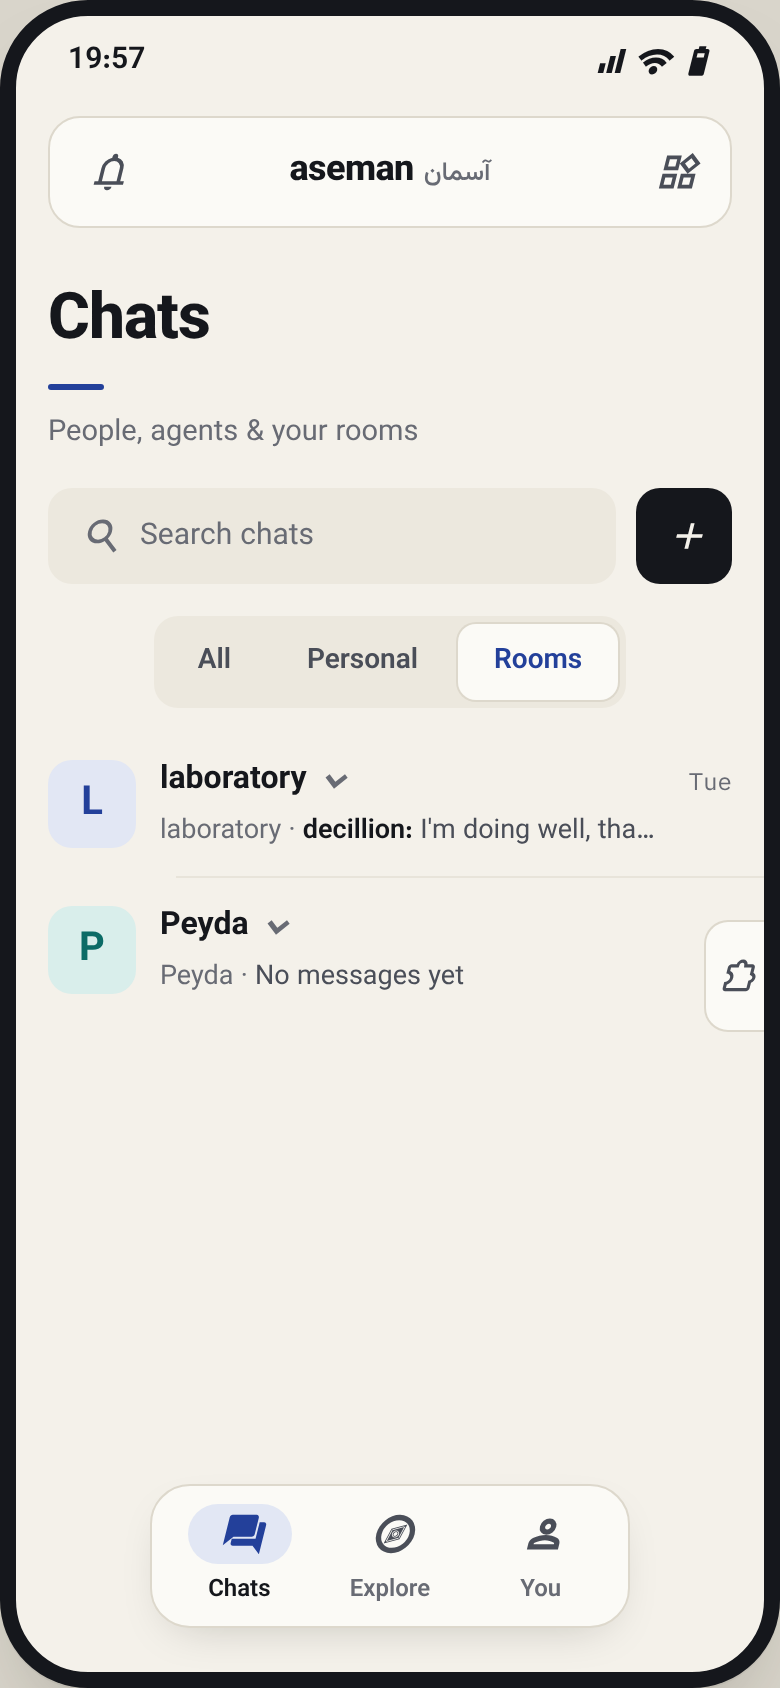
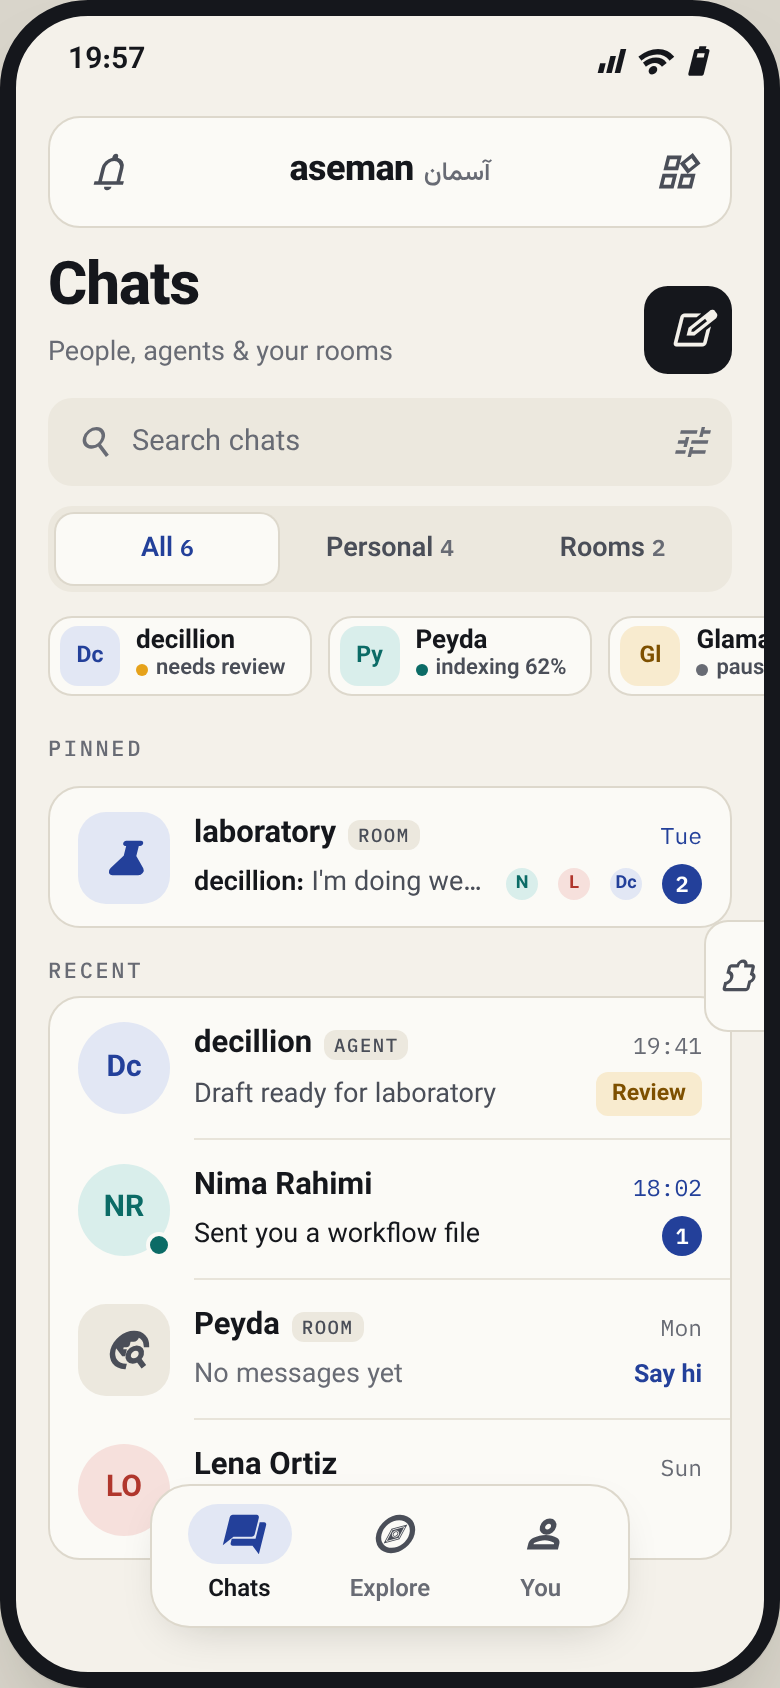
Mockups: richer Chats tab layout
Claude-Session: https://claude.ai/code/session_015vVwqbsWYyXhMKrkHDu5AD

diff --git a/design/mockups/mockups.html b/design/mockups/mockups.html
@@ -52,15 +52,6 @@ body{background:#D9D5CB;font-family:Vazirmatn,sans-serif;color:var(--ink);paddin
 .cap b{display:block;color:#15171C;font-size:15px;margin-bottom:4px}
 .w{display:flex;flex-direction:column}
 
-.cmd{position:absolute;left:0;right:0;bottom:0;background:var(--surface);border-top:1px solid var(--line);padding:10px 16px 24px}
-.places{display:flex;gap:18px;font-size:13px;font-weight:700;color:var(--ink-3);margin-bottom:10px;align-items:center}
-.places .on{color:var(--ink)}
-.places .on:after{content:"";display:block;height:2px;background:var(--ink);margin-top:3px;border-radius:1px}
-.line{height:48px;border:1.5px solid var(--ink);border-radius:14px;display:flex;align-items:center;padding:0 6px 0 14px;gap:10px;background:var(--paper)}
-.line .p{font-family:'IBM Plex Mono';font-weight:600;color:var(--lapis)}
-.line .ph{flex:1;font-size:14.5px;color:var(--ink-3)}
-.tok{border-bottom:2px dotted currentColor;padding:0 1px}
-
 .top{margin:6px 16px 0;height:56px;border:1px solid var(--line);background:var(--surface);border-radius:16px;display:flex;align-items:center;justify-content:space-between;padding:0 8px}
 .top .wm{font-weight:800;font-size:18px;letter-spacing:-.3px}.top .wm span{font-weight:500;font-size:13px;color:var(--ink-3);margin-left:5px}
 .nav{position:absolute;left:50%;transform:translateX(-50%);bottom:22px;width:240px;height:72px;background:var(--surface);border:1px solid var(--line);border-radius:20px;display:flex;align-items:center;padding:0 6px;box-shadow:0 8px 24px -12px rgba(20,18,10,.25)}
@@ -74,23 +65,7 @@ body{background:#D9D5CB;font-family:Vazirmatn,sans-serif;color:var(--ink);paddin
 .dark{--wallet:#2B4396}:root{--wallet:#23409A}
 .eyebrow{font-family:'IBM Plex Mono';font-size:11px;letter-spacing:.12em;color:var(--ink-3);font-weight:500}
 </style></head><body>
-<div class="w"><div class="phone" id="s1"><div class="status"><span>19:57</span><span><i class="i">signal_cellular_alt</i><i class="i">wifi</i><i class="i">battery_5_bar</i></span></div><div class="top"><span class="ib"><i class="i">notifications</i></span><span class="wm">aseman<span>آسمان</span></span><span class="ib"><i class="i">widgets</i></span></div>
-<div class="pad" style="margin-top:22px"><div style="font-size:32px;font-weight:800;letter-spacing:-.5px">Chats</div><div style="width:28px;height:3px;border-radius:2px;background:var(--lapis);margin-top:6px"></div><div style="font-size:14.5px;color:var(--ink-3);margin-top:10px">People, agents &amp; your rooms</div></div>
-<div class="pad row" style="margin-top:16px;gap:10px"><div style="flex:1;height:48px;border-radius:12px;background:var(--sunken);display:flex;align-items:center;gap:10px;padding:0 14px;color:var(--ink-3);font-size:15px"><i class="i">search</i>Search chats</div><span class="ib" style="width:48px;height:48px;background:var(--ink);color:var(--paper)"><i class="i">add</i></span></div>
-<div style="display:flex;justify-content:center;margin-top:16px"><div style="display:flex;background:var(--sunken);border-radius:12px;padding:4px;gap:2px;font-size:14px;font-weight:600;color:var(--ink-2)">
- <span style="padding:8px 18px">All</span><span style="padding:8px 18px">Personal</span><span style="padding:8px 18px;border-radius:9px;background:var(--surface);color:var(--lapis);box-shadow:0 0 0 1px var(--line)">Rooms</span></div></div>
-<div style="margin-top:12px">
-<div class="row" style="padding:12px 16px">
- <span class="sq t-l" style="width:44px;height:44px;border-radius:12px;font-size:20px">L</span>
- <div style="flex:1;min-width:0"><div class="row" style="justify-content:space-between"><span style="font-weight:700;font-size:16px;display:flex;align-items:center;gap:2px">laboratory<i class="i" style="font-size:20px;color:var(--ink-3)">expand_more</i></span><span class="mono" style="font-size:12px;color:var(--ink-3)">Tue</span></div>
- <div style="font-size:13.5px;color:var(--ink-2);white-space:nowrap;overflow:hidden;text-overflow:ellipsis;margin-top:2px"><span style="color:var(--ink-3)">laboratory ·</span> <b style="font-weight:600;color:var(--ink)">decillion:</b> I'm doing well, tha…</div></div></div>
-<div style="height:1px;background:var(--line-2);margin-left:80px"></div>
-<div class="row" style="padding:12px 16px">
- <span class="sq t-f" style="width:44px;height:44px;border-radius:12px;font-size:20px">P</span>
- <div style="flex:1;min-width:0"><div class="row" style="justify-content:space-between"><span style="font-weight:700;font-size:16px;display:flex;align-items:center;gap:2px">Peyda<i class="i" style="font-size:20px;color:var(--ink-3)">expand_more</i></span><span class="mono" style="font-size:12px;color:var(--ink-3)"></span></div>
- <div style="font-size:13.5px;color:var(--ink-2);white-space:nowrap;overflow:hidden;text-overflow:ellipsis;margin-top:2px"><span style="color:var(--ink-3)">Peyda ·</span> No messages yet</div></div></div>
-</div><div class="ext"><i class="i">extension</i></div><div class="nav"><a class="on"><span class="ic"><i class="i f">forum</i></span>Chats</a><a class=""><span class="ic"><i class="i ">explore</i></span>Explore</a><a class=""><span class="ic"><i class="i ">person</i></span>You</a></div>
-</div><div class="cap"><b>01 · Chats</b>Same layout as today. The pill top bar is now a squarer card. Search is a sunken field next to a black "+" button. The selected filter is a raised segment with lapis text. Rooms get tinted square avatars, and times use the mono font.</div></div><div class="w"><div class="phone" id="s2"><div class="status"><span>19:57</span><span><i class="i">signal_cellular_alt</i><i class="i">wifi</i><i class="i">battery_5_bar</i></span></div><div class="top"><span class="ib"><i class="i">notifications</i></span><span class="wm">aseman<span>آسمان</span></span><span class="ib"><i class="i">widgets</i></span></div>
+<div class="w"><div class="phone" id="s1"><div class="status"><span>19:57</span><span><i class="i">signal_cellular_alt</i><i class="i">wifi</i><i class="i">battery_5_bar</i></span></div><div class="top"><span class="ib"><i class="i">notifications</i></span><span class="wm">aseman<span>آسمان</span></span><span class="ib"><i class="i">widgets</i></span></div><div class="pad row" style="margin-top:16px;justify-content:space-between;align-items:flex-end"><div><div style="font-size:30px;font-weight:800;letter-spacing:-.5px;line-height:1">Chats</div><div style="font-size:13.5px;color:var(--ink-3);margin-top:6px">People, agents &amp; your rooms</div></div><span class="ib" style="width:44px;height:44px;background:var(--ink);color:var(--paper)"><i class="i">edit_square</i></span></div><div class="pad" style="margin-top:12px"><div style="height:44px;border-radius:12px;background:var(--sunken);display:flex;align-items:center;gap:10px;padding:0 12px;color:var(--ink-3);font-size:14.5px"><i class="i" style="font-size:20px">search</i><span style="flex:1">Search chats</span><i class="i" style="font-size:20px">tune</i></div></div><div class="pad" style="margin-top:10px"><div style="display:flex;background:var(--sunken);border-radius:12px;padding:4px;font-size:13.5px;font-weight:600;color:var(--ink-2)"><span style="flex:1;text-align:center;padding:7px 0;border-radius:9px;background:var(--surface);color:var(--lapis);box-shadow:0 0 0 1px var(--line)">All <span class="mono" style="font-size:11.5px">6</span></span><span style="flex:1;text-align:center;padding:7px 0">Personal <span class="mono" style="font-size:11.5px;color:var(--ink-3)">4</span></span><span style="flex:1;text-align:center;padding:7px 0">Rooms <span class="mono" style="font-size:11.5px;color:var(--ink-3)">2</span></span></div></div><div style="display:flex;gap:8px;padding:12px 16px 0;overflow:hidden"><span class="row" style="gap:8px;height:40px;padding:0 12px 0 5px;border-radius:12px;border:1px solid var(--line);background:var(--surface);flex:none"><span class="sq t-l" style="width:30px;height:30px;border-radius:9px;font-size:11.5px">Dc</span><span style="line-height:1.15"><span style="display:block;font-size:13px;font-weight:700">decillion</span><span class="row" style="gap:4px;font-size:11px;color:var(--ink-2);font-weight:600"><i class="dot" style="background:var(--saffron-fill);width:6px;height:6px"></i>needs review</span></span></span><span class="row" style="gap:8px;height:40px;padding:0 12px 0 5px;border-radius:12px;border:1px solid var(--line);background:var(--surface);flex:none"><span class="sq t-f" style="width:30px;height:30px;border-radius:9px;font-size:11.5px">Py</span><span style="line-height:1.15"><span style="display:block;font-size:13px;font-weight:700">Peyda</span><span class="row" style="gap:4px;font-size:11px;color:var(--ink-2);font-weight:600"><i class="dot" style="background:var(--firoozeh);width:6px;height:6px"></i>indexing 62%</span></span></span><span class="row" style="gap:8px;height:40px;padding:0 12px 0 5px;border-radius:12px;border:1px solid var(--line);background:var(--surface);flex:none"><span class="sq t-s" style="width:30px;height:30px;border-radius:9px;font-size:11.5px">Gl</span><span style="line-height:1.15"><span style="display:block;font-size:13px;font-weight:700">Glama</span><span class="row" style="gap:4px;font-size:11px;color:var(--ink-2);font-weight:600"><i class="dot" style="background:var(--ink-3);width:6px;height:6px"></i>paused</span></span></span></div><div class="pad" style="margin-top:14px"><span class="eyebrow">PINNED</span></div><div class="pad" style="margin-top:6px"><div class="box" style="border-radius:16px"><div class="row" style="padding:11px 14px"><span style="position:relative;flex:none"><span class="sq t-l" style="width:46px;height:46px;border-radius:14px;font-size:15px"><i class="i f" style="font-size:22px">science</i></span></span><div style="flex:1;min-width:0"><div class="row" style="justify-content:space-between;gap:8px"><span class="row" style="gap:6px;font-weight:700;font-size:15.5px">laboratory<span class="pill t-n mono" style="font-size:9.5px;letter-spacing:.08em;padding:1px 5px;font-weight:500">ROOM</span></span><span class="mono" style="font-size:11.5px;color:var(--lapis)">Tue</span></div><div class="row" style="justify-content:space-between;gap:8px;margin-top:2px"><span style="font-size:13.5px;color:var(--ink-2);white-space:nowrap;overflow:hidden;text-overflow:ellipsis"><b style="font-weight:600;color:var(--ink)">decillion:</b> I'm doing well, thanks for asking…</span><span class="row" style="flex:none"><span class="sq t-f" style="width:20px;height:20px;border-radius:50%;font-size:9px;border:2px solid var(--surface);margin-left:0px">N</span><span class="sq t-a" style="width:20px;height:20px;border-radius:50%;font-size:9px;border:2px solid var(--surface);margin-left:-6px">L</span><span class="sq t-l" style="width:20px;height:20px;border-radius:50%;font-size:9px;border:2px solid var(--surface);margin-left:-6px">Dc</span></span><span class="mono" style="min-width:20px;height:20px;border-radius:10px;background:var(--lapis);color:var(--on-lapis);font-size:11px;font-weight:600;display:flex;align-items:center;justify-content:center;padding:0 6px;flex:none">2</span></div></div></div></div></div><div class="pad row" style="margin-top:14px;justify-content:space-between"><span class="eyebrow">RECENT</span></div><div class="pad" style="margin-top:6px"><div class="box" style="border-radius:16px"><div class="row" style="padding:11px 14px"><span style="position:relative;flex:none"><span class="sq t-l" style="width:46px;height:46px;border-radius:50%;font-size:15px">Dc</span></span><div style="flex:1;min-width:0"><div class="row" style="justify-content:space-between;gap:8px"><span class="row" style="gap:6px;font-weight:700;font-size:15.5px">decillion<span class="pill t-n mono" style="font-size:9.5px;letter-spacing:.08em;padding:1px 5px;font-weight:500">AGENT</span></span><span class="mono" style="font-size:11.5px;color:var(--ink-3)">19:41</span></div><div class="row" style="justify-content:space-between;gap:8px;margin-top:2px"><span style="font-size:13.5px;color:var(--ink-2);white-space:nowrap;overflow:hidden;text-overflow:ellipsis">Draft ready for laboratory</span><span class="pill t-s" style="flex:none">Review</span></div></div></div><div style="height:1px;background:var(--line-2);margin-left:72px"></div><div class="row" style="padding:11px 14px"><span style="position:relative;flex:none"><span class="sq t-f" style="width:46px;height:46px;border-radius:50%;font-size:15px">NR</span><i style="position:absolute;right:-1px;bottom:-1px;width:13px;height:13px;border-radius:50%;background:var(--firoozeh);border:2.5px solid var(--surface)"></i></span><div style="flex:1;min-width:0"><div class="row" style="justify-content:space-between;gap:8px"><span class="row" style="gap:6px;font-weight:700;font-size:15.5px">Nima Rahimi</span><span class="mono" style="font-size:11.5px;color:var(--lapis)">18:02</span></div><div class="row" style="justify-content:space-between;gap:8px;margin-top:2px"><span style="font-size:13.5px;color:var(--ink-2);white-space:nowrap;overflow:hidden;text-overflow:ellipsis"><span style="color:var(--ink)">Sent you a workflow file</span></span><span class="mono" style="min-width:20px;height:20px;border-radius:10px;background:var(--lapis);color:var(--on-lapis);font-size:11px;font-weight:600;display:flex;align-items:center;justify-content:center;padding:0 6px;flex:none">1</span></div></div></div><div style="height:1px;background:var(--line-2);margin-left:72px"></div><div class="row" style="padding:11px 14px"><span style="position:relative;flex:none"><span class="sq t-n" style="width:46px;height:46px;border-radius:14px;font-size:15px"><i class="i" style="font-size:22px">travel_explore</i></span></span><div style="flex:1;min-width:0"><div class="row" style="justify-content:space-between;gap:8px"><span class="row" style="gap:6px;font-weight:700;font-size:15.5px">Peyda<span class="pill t-n mono" style="font-size:9.5px;letter-spacing:.08em;padding:1px 5px;font-weight:500">ROOM</span></span><span class="mono" style="font-size:11.5px;color:var(--ink-3)">Mon</span></div><div class="row" style="justify-content:space-between;gap:8px;margin-top:2px"><span style="font-size:13.5px;color:var(--ink-2);white-space:nowrap;overflow:hidden;text-overflow:ellipsis"><span style="color:var(--ink-3)">No messages yet</span></span><span style="font-size:12.5px;font-weight:700;color:var(--lapis);flex:none">Say hi</span></div></div></div><div style="height:1px;background:var(--line-2);margin-left:72px"></div><div class="row" style="padding:11px 14px"><span style="position:relative;flex:none"><span class="sq t-a" style="width:46px;height:46px;border-radius:50%;font-size:15px">LO</span></span><div style="flex:1;min-width:0"><div class="row" style="justify-content:space-between;gap:8px"><span class="row" style="gap:6px;font-weight:700;font-size:15.5px">Lena Ortiz</span><span class="mono" style="font-size:11.5px;color:var(--ink-3)">Sun</span></div><div class="row" style="justify-content:space-between;gap:8px;margin-top:2px"><span style="font-size:13.5px;color:var(--ink-2);white-space:nowrap;overflow:hidden;text-overflow:ellipsis"><i class="i" style="font-size:15px;vertical-align:-3px">mic</i> Voice message · <span class="mono" style="font-size:12px">0:42</span></span></div></div></div></div></div><div class="ext"><i class="i">extension</i></div><div class="nav"><a class="on"><span class="ic"><i class="i f">forum</i></span>Chats</a><a class=""><span class="ic"><i class="i ">explore</i></span>Explore</a><a class=""><span class="ic"><i class="i ">person</i></span>You</a></div></div><div class="cap"><b>01 · Chats</b>Same structure as today (top bar, title, search, filters, list), but it uses the space better. The title and the new-chat button share a row. The filters show counts. A strip of agent chips shows what each agent is doing. Pinned rooms sit above Recent. Each row shows its type tag, unread count, members, online dot and the next step ("Review", "Say hi"). Rooms have square avatars and people round ones.</div></div><div class="w"><div class="phone" id="s2"><div class="status"><span>19:57</span><span><i class="i">signal_cellular_alt</i><i class="i">wifi</i><i class="i">battery_5_bar</i></span></div><div class="top"><span class="ib"><i class="i">notifications</i></span><span class="wm">aseman<span>آسمان</span></span><span class="ib"><i class="i">widgets</i></span></div>
 <div class="pad" style="margin-top:12px"><div style="height:50px;border-radius:14px;border:1px solid var(--line);background:var(--surface);display:flex;align-items:center;gap:10px;padding:0 14px;color:var(--ink-3);font-size:15px"><i class="i">search</i>Search Aseman…</div></div>
 <div class="pad" style="margin-top:12px"><div class="box" style="padding:16px;display:flex;gap:16px;align-items:center">
  <svg width="104" height="104" viewBox="0 0 104 104"><circle cx="52" cy="52" r="44" fill="none" stroke="var(--sunken)" stroke-width="9"/><circle cx="52" cy="52" r="44" fill="none" stroke="var(--firoozeh)" stroke-width="9" stroke-linecap="round" stroke-dasharray="276.5" stroke-dashoffset="276.5" transform="rotate(-90 52 52)"/>
@@ -150,12 +125,12 @@ body{background:#D9D5CB;font-family:Vazirmatn,sans-serif;color:var(--ink);paddin
     <div class="mono" style="font-size:14px">1,240 · 684afa…ef55 · 19:41</div></div></div>
   <div><div style="font-size:12px;font-weight:700;color:#686B74;letter-spacing:.06em">RULES</div>
    <ul style="margin-top:10px;padding-left:18px;font-size:13.5px;line-height:1.7;color:#4A4E58">
-    <li>Colour marks meaning, never decoration.</li>
+    <li>One filled colour block per screen at most (wallet, your bubble).</li>
     <li>State = colour + word + shape. Never colour alone.</li>
     <li>Saffron only for things waiting on the user.</li>
     <li>No gradients, no blur, no glow. Depth comes from a 1px line and a sunken surface.</li>
     <li>Numbers, times and keys use mono with tabular figures.</li>
-    <li>Persian-first: one family renders both scripts, layouts mirror for RTL.</li></ul></div>
+    <li>Built with Persian in mind: one family renders both scripts, layouts mirror for RTL.</li></ul></div>
  </div>
 </div><div class="cap" style="width:840px"><b>07 · The colour system</b>Every pairing used in the screens is listed with its measured WCAG contrast ratio.</div></div>
 
